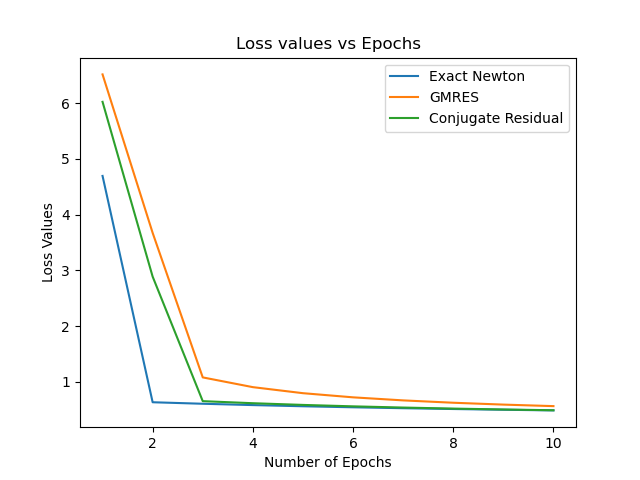
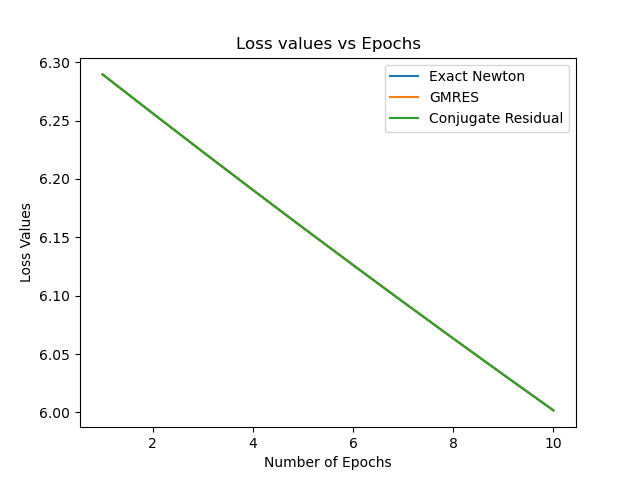
need to check loss curves

diff --git a/convex_model/experimentation.py b/convex_model/experimentation.py
@@ -123,89 +123,88 @@ def newton_method_svd_low_rank(self, num_epochs):
 
         return w, loss_values
         
+def biconjugate_gradient_stable(self, w, b, tol=10**-3):
 
-    def biconjugate_gradient_stable(self, w, b, tol=10**-3):
+    # A = hessian 
+    num_iter = 1
+    
+    x = [None]
+    r = [None]
+    r_hat = [None]
+    rho = [None]
+    p = [None]
 
-        # A = hessian 
-        num_iter = 1
+    # initialize parameters
+    x[0] = torch.rand(b.shape[0])
+
+    hessian = self.form_hessian(w)
+
+    print(hessian)
+    #print(hessian)
+    #r[0] = b - torch.autograd.functional.hvp(self.l2_regularized_logistic_regression_loss, w, x[0])[1]
+    r[0] = b - (hessian @ x[0])
+    r_hat[0] = torch.clone(r[0])
+
+    rho[0] = (r_hat[0].T @ r[0])
+    p[0] = r[0]
+
+
+    while True:
+
+        #v = torch.autograd.functional.hvp(self.l2_regularized_logistic_regression_loss, w, p[-1])[1]
+        v = hessian @ p[-1]
+        alpha = rho[-1]/(r_hat[0].T @ v)
+        h = x[-1] + (alpha * p[-1])
+        s = r[-1] - (alpha * v)
+
+        #dist_to_solution = b - torch.autograd.functional.hvp(self.l2_regularized_logistic_regression_loss, w, x[-1])[1]
+        dist_to_solution = b - (hessian @ x[-1])
+        if (torch.norm(dist_to_solution)) <= tol:
+            return x[-1], num_iter
+
+        #t = torch.autograd.functional.hvp(self.l2_regularized_logistic_regression_loss, w, s)[1]
+        t = hesian @ s
+        omega = (t.T @ s)/(t.T @ t)
+        x.append(h + (omega * s))
+        r.append(s - (omega * t))
+        rho.append(r_hat[0].T @ r[-1])
+
+        beta = (rho[-1]/rho[-2]) * (alpha/omega)
+        p.append(r[-1] + (beta * (p[-1] - (omega * v))))
+
+        num_iter += 1
+    
+    return x[-1], num_iter
+
+
+
+def sketch_newton_method(self, num_epochs):
+    """
+    Idea: don't directly compute the Hessian. Solve linear system H p = g with hessian vector products
+
+    let loss function be L 
+    Define g(w) = v.T @ grad_L(w)
+
+    grad_g(w) = H v, H = hessian of loss function L
+
+    """
+    w = torch.rand(self.X.shape[0])
         
-        x = [None]
-        r = [None]
-        r_hat = [None]
-        rho = [None]
-        p = [None]
+    loss_values = {}
+    for epoch in tqdm(range(num_epochs)):
+        # compute the gradient, hessian
+        gradient = (torch.sigmoid(-self.y*((self.X.T)@w))*(-self.y*self.X)).mean(1) + (self.regularization * w)
 
-        # initialize parameters
-        x[0] = torch.rand(b.shape[0])
+        g = lambda u: u.T @ gradient
 
-        hessian = self.form_hessian(w)
+        update, _ = self.biconjugate_gradient_stable(w, gradient, 10000)
+        w = w - (0.01 * update) 
+        loss_val = self.l2_regularized_logistic_regression_loss(w).item()
+        loss_values[epoch + 1] = loss_val
+        print(loss_val)
+        print(self.test_model(w))
 
-        print(hessian)
-        #print(hessian)
-        #r[0] = b - torch.autograd.functional.hvp(self.l2_regularized_logistic_regression_loss, w, x[0])[1]
-        r[0] = b - (hessian @ x[0])
-        r_hat[0] = torch.clone(r[0])
-
-        rho[0] = (r_hat[0].T @ r[0])
-        p[0] = r[0]
-
-
-        while True:
-
-            #v = torch.autograd.functional.hvp(self.l2_regularized_logistic_regression_loss, w, p[-1])[1]
-            v = hessian @ p[-1]
-            alpha = rho[-1]/(r_hat[0].T @ v)
-            h = x[-1] + (alpha * p[-1])
-            s = r[-1] - (alpha * v)
-
-            #dist_to_solution = b - torch.autograd.functional.hvp(self.l2_regularized_logistic_regression_loss, w, x[-1])[1]
-            dist_to_solution = b - (hessian @ x[-1])
-            if (torch.norm(dist_to_solution)) <= tol:
-                return x[-1], num_iter
-
-            #t = torch.autograd.functional.hvp(self.l2_regularized_logistic_regression_loss, w, s)[1]
-            t = hesian @ s
-            omega = (t.T @ s)/(t.T @ t)
-            x.append(h + (omega * s))
-            r.append(s - (omega * t))
-            rho.append(r_hat[0].T @ r[-1])
-
-            beta = (rho[-1]/rho[-2]) * (alpha/omega)
-            p.append(r[-1] + (beta * (p[-1] - (omega * v))))
-
-            num_iter += 1
-        
-        return x[-1], num_iter
-
-
-
-    def sketch_newton_method(self, num_epochs):
-        """
-        Idea: don't directly compute the Hessian. Solve linear system H p = g with hessian vector products
-
-        let loss function be L 
-        Define g(w) = v.T @ grad_L(w)
-
-        grad_g(w) = H v, H = hessian of loss function L
-
-        """
-        w = torch.rand(self.X.shape[0])
-         
-        loss_values = {}
-        for epoch in tqdm(range(num_epochs)):
-            # compute the gradient, hessian
-            gradient = (torch.sigmoid(-self.y*((self.X.T)@w))*(-self.y*self.X)).mean(1) + (self.regularization * w)
-
-            g = lambda u: u.T @ gradient
-
-            update, _ = self.biconjugate_gradient_stable(w, gradient, 10000)
-            w = w - (0.01 * update) 
-            loss_val = self.l2_regularized_logistic_regression_loss(w).item()
-            loss_values[epoch + 1] = loss_val
-            print(loss_val)
-            print(self.test_model(w))
-
-        return w, loss_values
+    return w, loss_values
         
 A = torch.tensor([[2., 3., 0.], [3., 1., 2.], [0., 2., 1.]])
 b = torch.rand(3)

diff --git a/convex_model/a9a_analysis.py b/convex_model/a9a_analysis.py
@@ -244,12 +244,12 @@ class A9A_Analysis:
             return accuracy
     
 
-    def plot_losses_or_accuracies_all_newton_methods(self, filename, num_epochs, plot_losses=True):
+    def plot_losses_or_accuracies_all_newton_methods(self, filename, num_epochs, init_w, plot_losses=True):
         newton_methods = {'Exact Newton': self.newton_method_exact, 'GMRES': 
         self.gmres, 'Conjugate Residual': self.conjugate_residual}
 
         for newton_method_name, newton_method in newton_methods.items():
-            _, loss_vals, accuracy_vals, _ = newton_method(num_epochs)
+            _, loss_vals, accuracy_vals, _ = newton_method(num_epochs, init_w)
             epochs = [i for i in range(1, num_epochs + 1)]
             loss_values = [val for _, val in loss_vals.items()] 
             accuracy_values = [val for _, val in accuracy_vals.items()]
@@ -335,13 +335,13 @@ if __name__ == "__main__":
     # v = torch.randn(124)
 
     # print(a9a.hessian_vector_product(w, v))
-    wall_clock_times = a9a.measure_wall_clock_time_all_newton_methods(10, init_w)
+    #wall_clock_times = a9a.measure_wall_clock_time_all_newton_methods(10, init_w)
     #print(wall_clock_times)
 
     #print(torch.autograd.functional.hessian(a9a.l2_regularized_logistic_regression_loss, torch.ones(124)))
     
     
-    #a9a.plot_losses_or_accuracies_all_newton_methods('loss_vals.png', 10, True)
+    a9a.plot_losses_or_accuracies_all_newton_methods('loss_vals.png', 10, init_w, True)
     #a9a.plot_losses_or_accuracies_all_newton_methods('accuracy_vals.png', 10, False)
     #a9a.plot_suboptimality_all_newton_methods('suboptimality.png', 10, init_w)
 
